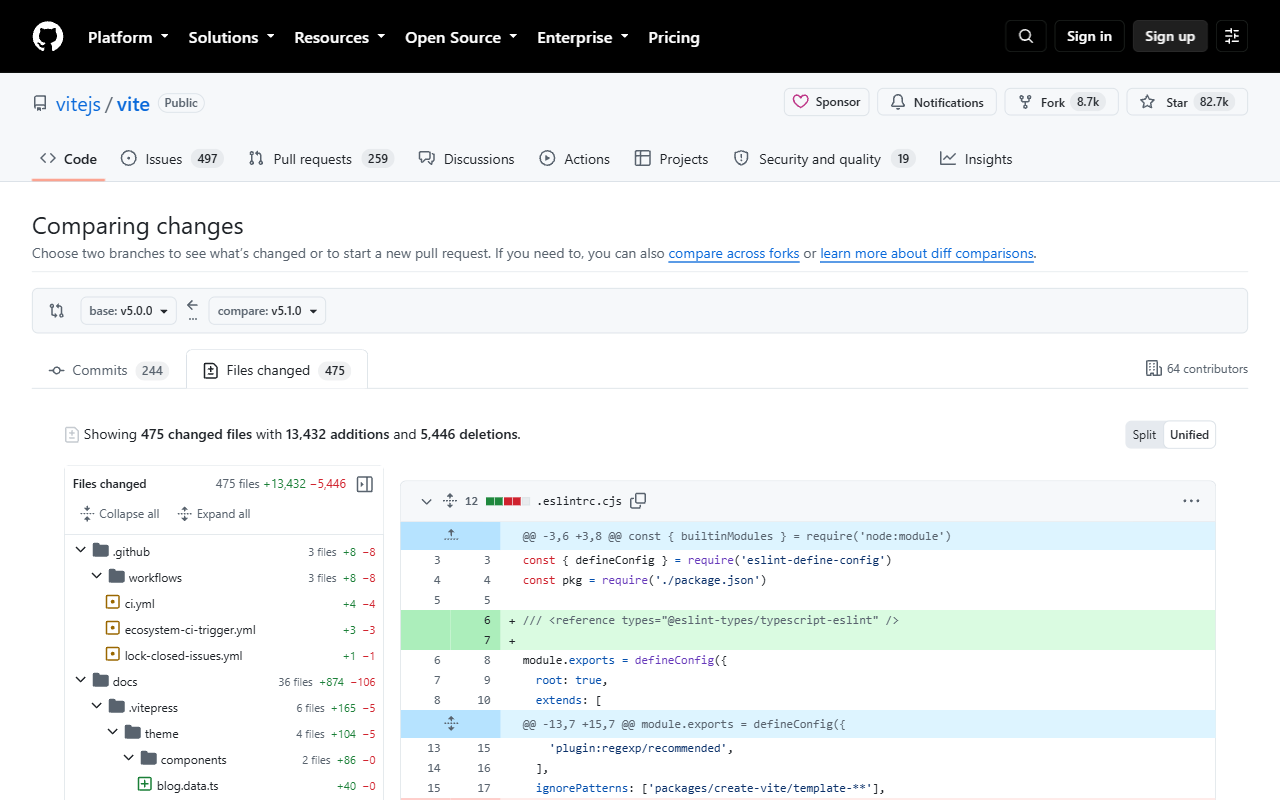
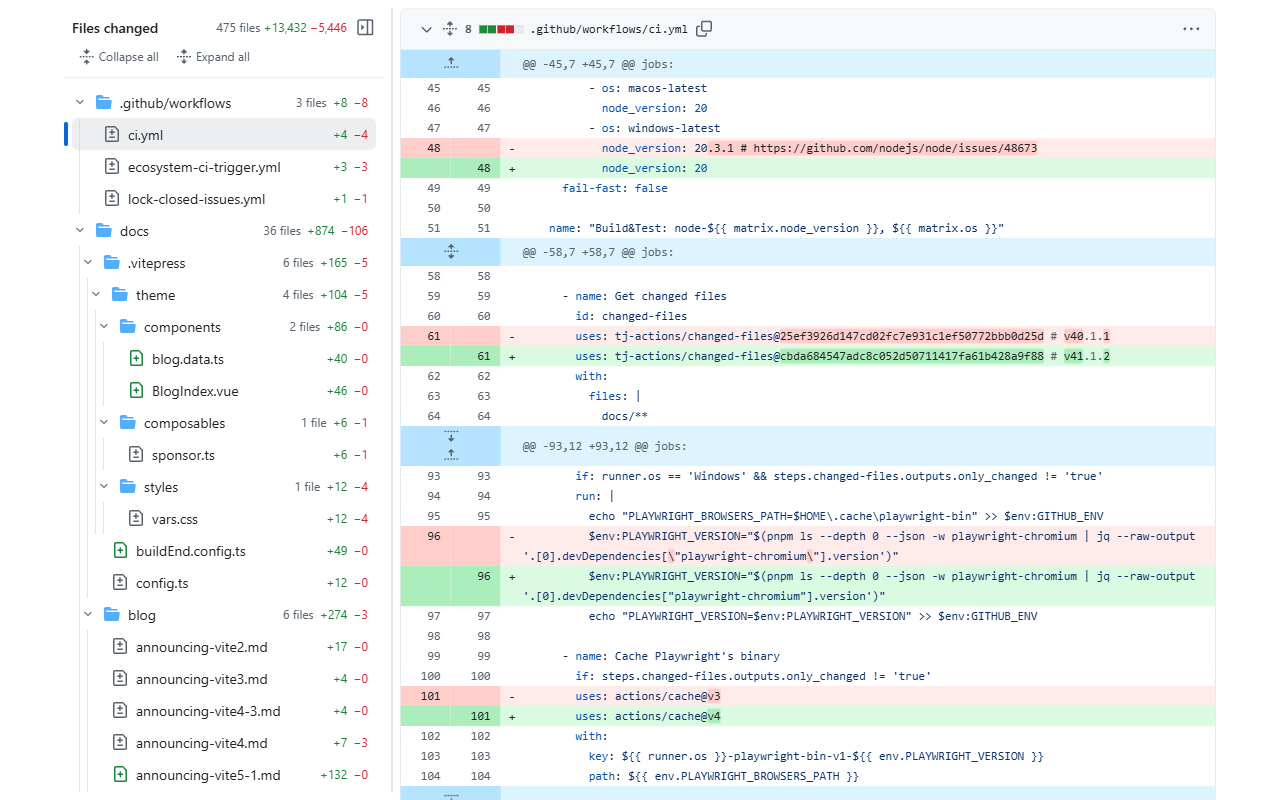
chore: release 1.1.0

diff --git a/docs/store/listing.md b/docs/store/listing.md
@@ -13,7 +13,8 @@ Adds a PR-style tree of changed folders and files to GitHub's branch compare pag
 GitHub's branch compare page lists commits and diffs but gives no overview of which folders and
 files changed. This extension adds the tree you know from pull requests: every changed file nested
 by folder, with additions and deletions per file and per folder, status icons for added, removed,
-and renamed files, and click-to-jump to any diff.
+and renamed files, and click-to-jump to any diff. Folders that only hold one sub-folder fold into
+a single row, and you can drag the divider to give long paths more room.
 
 Use it to review what a branch touches before opening a pull request, or to inspect a range
 between two tags or releases.
@@ -31,17 +32,17 @@ Show a navigable tree of the files changed on a GitHub branch compare page.
 
 ## Permission justification
 
-- storage: remembers whether the user hid the sidebar.
+- storage: remembers whether the user hid the sidebar and the width they dragged it to.
 - Content script on https://github.com/*: GitHub switches pages without a full reload and Chrome injects content scripts only on page loads, so the script runs on github.com to notice navigation to a branch compare page. It stays idle elsewhere; on a compare page it reads that page and downloads its .diff to build the tree.
 
 ## Data usage disclosure
 
 The extension does not collect, store, or transmit any user data. It fetches the diff of the
-compare page being viewed from github.com and keeps one boolean preference in local extension
-storage.
+compare page being viewed from github.com and keeps two preferences (sidebar visibility and width) in
+local extension storage.
 
 ## Assets to prepare
 
 - Icon 128 px: generated in `.output/chrome-mv3/icons/128.png`.
-- Screenshots 1280 by 800: `docs/store/screenshot-1.png` (Express compare, light theme) and
+- Screenshots 1280 by 800: `docs/store/screenshot-1.png` (Vite compare, light theme) and
   `docs/store/screenshot-2.png` (Vite compare, dark theme).

diff --git a/README.md b/README.md
@@ -8,11 +8,15 @@ counts and click-to-jump to each diff. See what a branch touches without opening
 
 ## Features
 
-- Folder tree of every changed file, one level per directory, like the PR "Files changed" sidebar.
+- Folder tree of every changed file, like the PR "Files changed" sidebar. Folders that only hold
+  one sub-folder fold into a single row (`src/main/java/com/acme`).
 - Per-file additions and deletions, status icons for added, modified, removed, and renamed files.
 - Per-folder rollups: file count, additions, deletions.
 - Click a file to jump to its diff, even before GitHub has streamed that part of the page.
 - The file under the viewport top is highlighted as you scroll.
+- Drag the divider to resize the tree (arrow keys work too, double-click resets). The width is
+  remembered.
+- Stays responsive on compares with thousands of files.
 - Follows GitHub's light, dark, and dimmed themes.
 - Works on private repositories through your existing GitHub session. No token, no setup.
 
@@ -21,7 +25,7 @@ counts and click-to-jump to each diff. See what a branch touches without opening
 The extension downloads the compare's `.diff` from github.com (the same request your browser
 would make if you opened the compare URL with `.diff` appended), parses it, and renders the tree
 beside GitHub's diff list. It needs only the `storage` permission, to remember whether you hid the
-sidebar. It makes no other network requests and collects no data. The script loads on every
+sidebar and how wide you made it. It makes no other network requests and collects no data. The script loads on every
 github.com page because GitHub changes pages without a full reload, and stays idle until the URL
 is a compare range.
 

diff --git a/CHANGELOG.md b/CHANGELOG.md
@@ -1,5 +1,18 @@
 # Changelog
 
+## 1.1.0
+
+- Folders that only hold one sub-folder fold into a single row, like `src/main/java/com/acme`,
+  as in GitHub's pull request tree.
+- GitHub-style tree: 32px rows, blue folder icons, a file icon per change status, guide lines, and
+  an accent bar on the file in view.
+- Drag the divider between the tree and the diff to resize the tree, or use the arrow keys on it.
+  Double-click resets the width. The width is remembered.
+- The tree now appears when a compare is opened from the branch picker or another GitHub page
+  without a page reload.
+- Opening and closing folders is several times faster on compares with thousands of files, and
+  resizing no longer restyles GitHub's diff.
+
 ## 1.0.0
 
 First release.

diff --git a/docs/store/privacy.md b/docs/store/privacy.md
@@ -9,7 +9,7 @@ on any other page. On a compare page it downloads the diff of that compare from 
 the same browser session GitHub already has, and renders a file tree from it. That download is the only network
 request the extension makes. Nothing is sent anywhere else.
 
-The extension stores a single preference in Chrome's local extension storage: whether you hid
-the sidebar. It is never transmitted.
+The extension stores two preferences in Chrome's local extension storage: whether you hid the
+sidebar, and its width. They are never transmitted.
 
 Questions: open an issue in the project repository.
